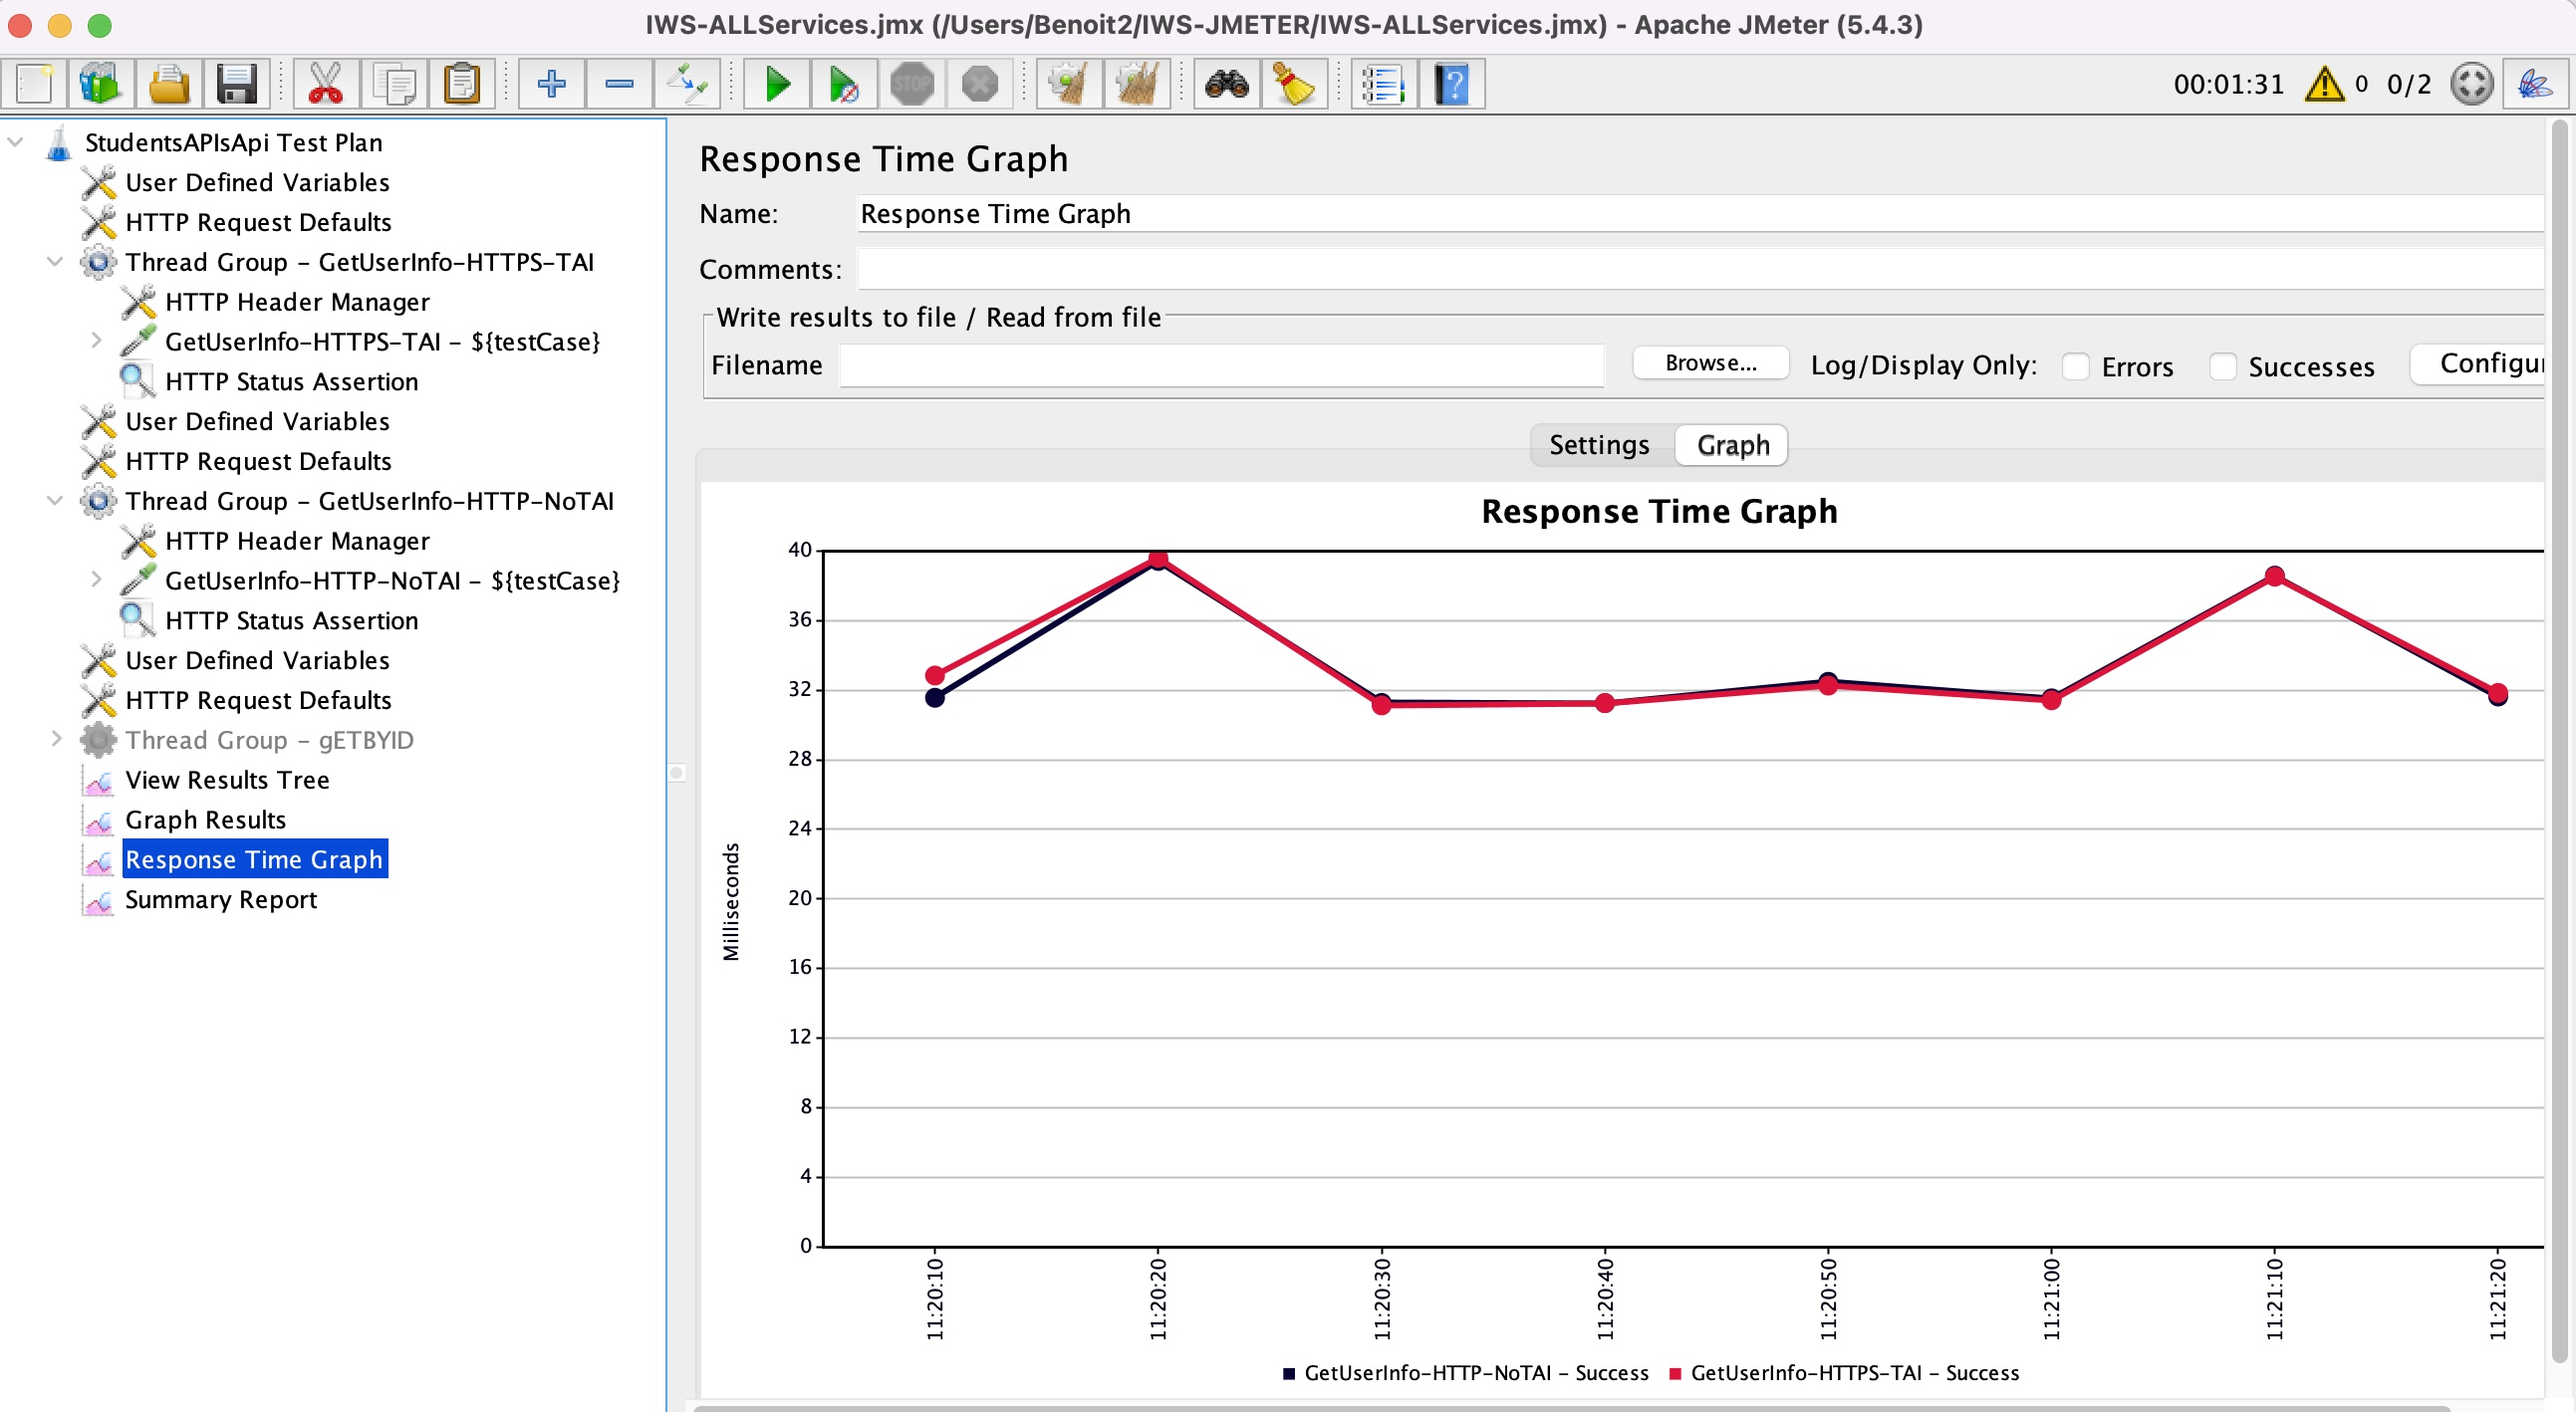
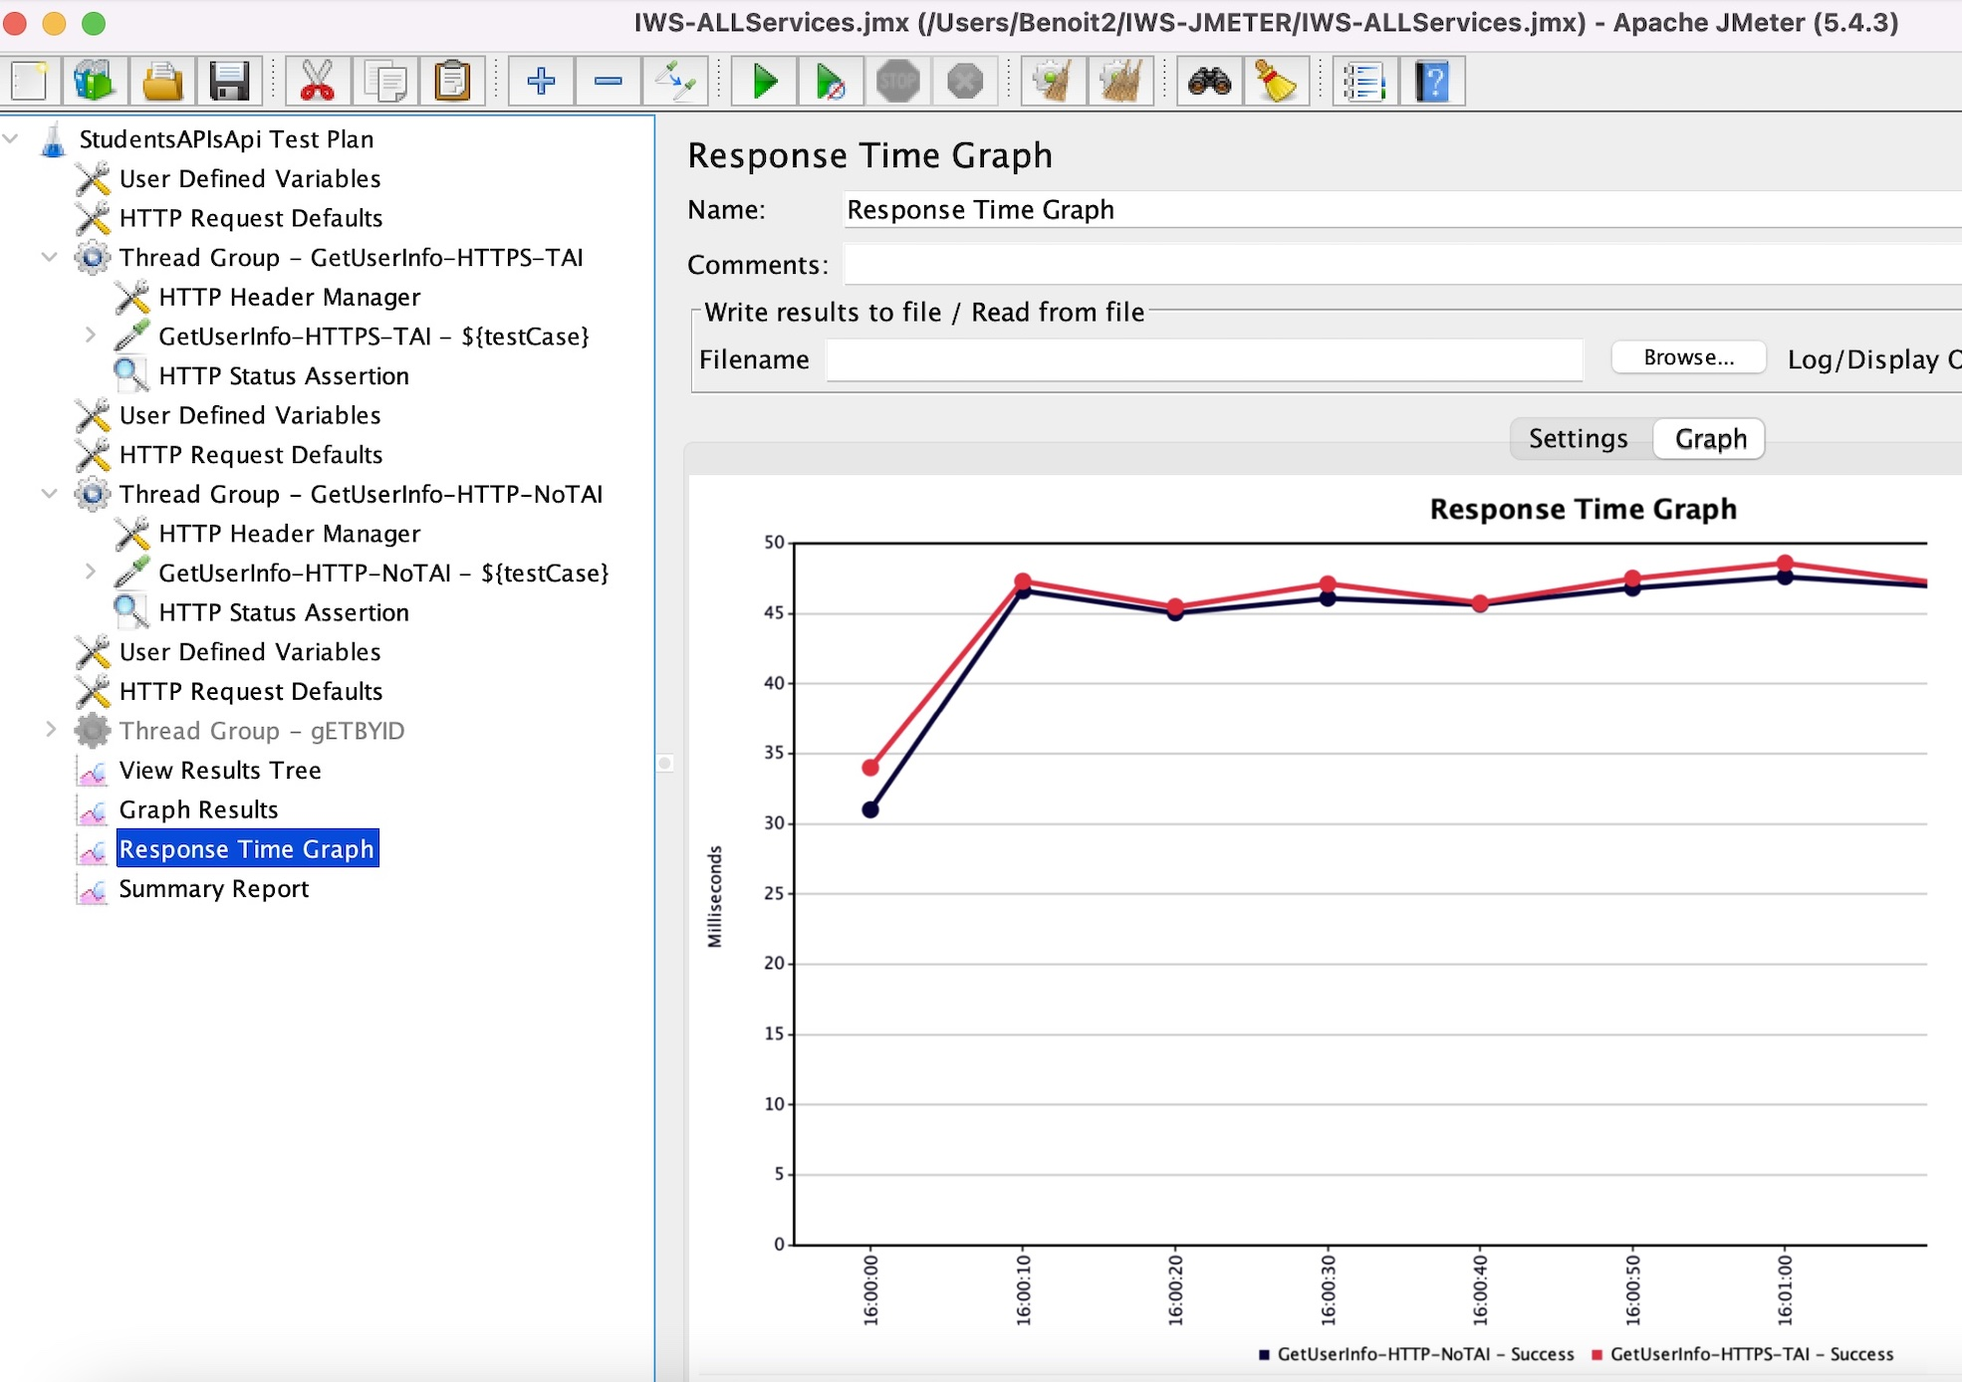
adding jmeter

diff --git a/README.md b/README.md
@@ -157,12 +157,11 @@ Error 403: AuthorizationFailed
 ## Performance test with JMeter
 
 Generate a jmeter script from the IWS-Generated OpenAPI swagger file.
-- Download your swagger from the IWS GUI or the IFS
+- Download your swagger file from the IWS GUI or the IFS
+![IWS Swagger Download](./images/iws-swagger.jpg)
+
 - Install openapi-generator from the project web site https://openapi-generator.tech/docs/installation/
 and run the generator 
-- Repeat the same steps for other API's/Web Services and potentially use the "Merge" feature of JMeter to merge different jmx in one jmx.  
-- Customize the generated jmeter jmx script  (datapools, etc.) & run your tests.
-
 ```bash
 java -jar openapi-generator-cli-6.2.0.jar generate -i swagger.json  -g jmeter
 ```
@@ -173,8 +172,12 @@ java -jar openapi-generator-cli-6.2.0.jar generate -i swagger.json  -g jmeter
 [main] INFO  o.o.codegen.TemplateManager - writing file ./GetUserInfoAPIsApi.jmx
 [main] INFO  o.o.codegen.TemplateManager - writing file ./GetUserInfoAPIsApi.csv
 ```
+- Repeat the same steps for other API's/Web Services and potentially use the "Merge" feature of JMeter to merge different jmx in one jmx. Customize the generated jmeter jmx script  (datapools, etc.) & run your tests. 
+
+- Here, we see that the HTTPS encryption and the Java Interceptor that validates a 3rd party certificate is quite transparent regarding the performance of this Web Service. 
 ![jmeter test](./images/iws-tai-jmeter-test.jpg)
-![TAI and no TAI Comparison  ](./images/iws-TAI-jmeter.jpg)
+
+- Average response times stays below 50ms and the throughput is not impacted here, as most of the time is efficiently spent in the RPG program DB2 for i query execution, not in the IWS/TAI processing: 
 ![TAI and no TAI throughput  ](./images/iws-tai-jmeter-throughput.jpg)
 
 
